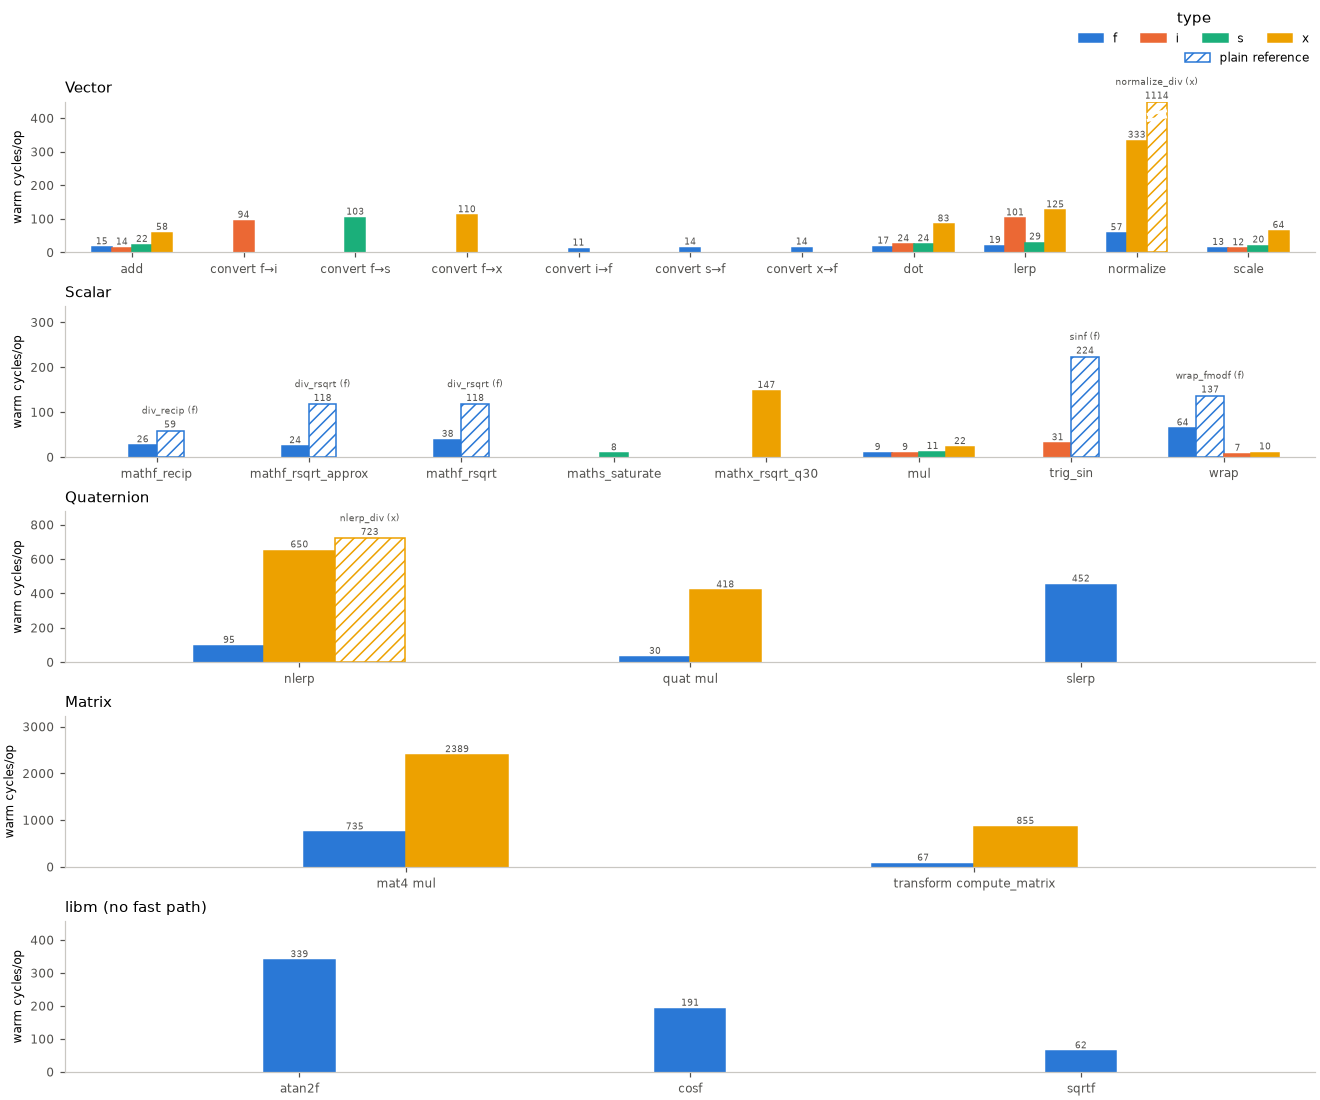
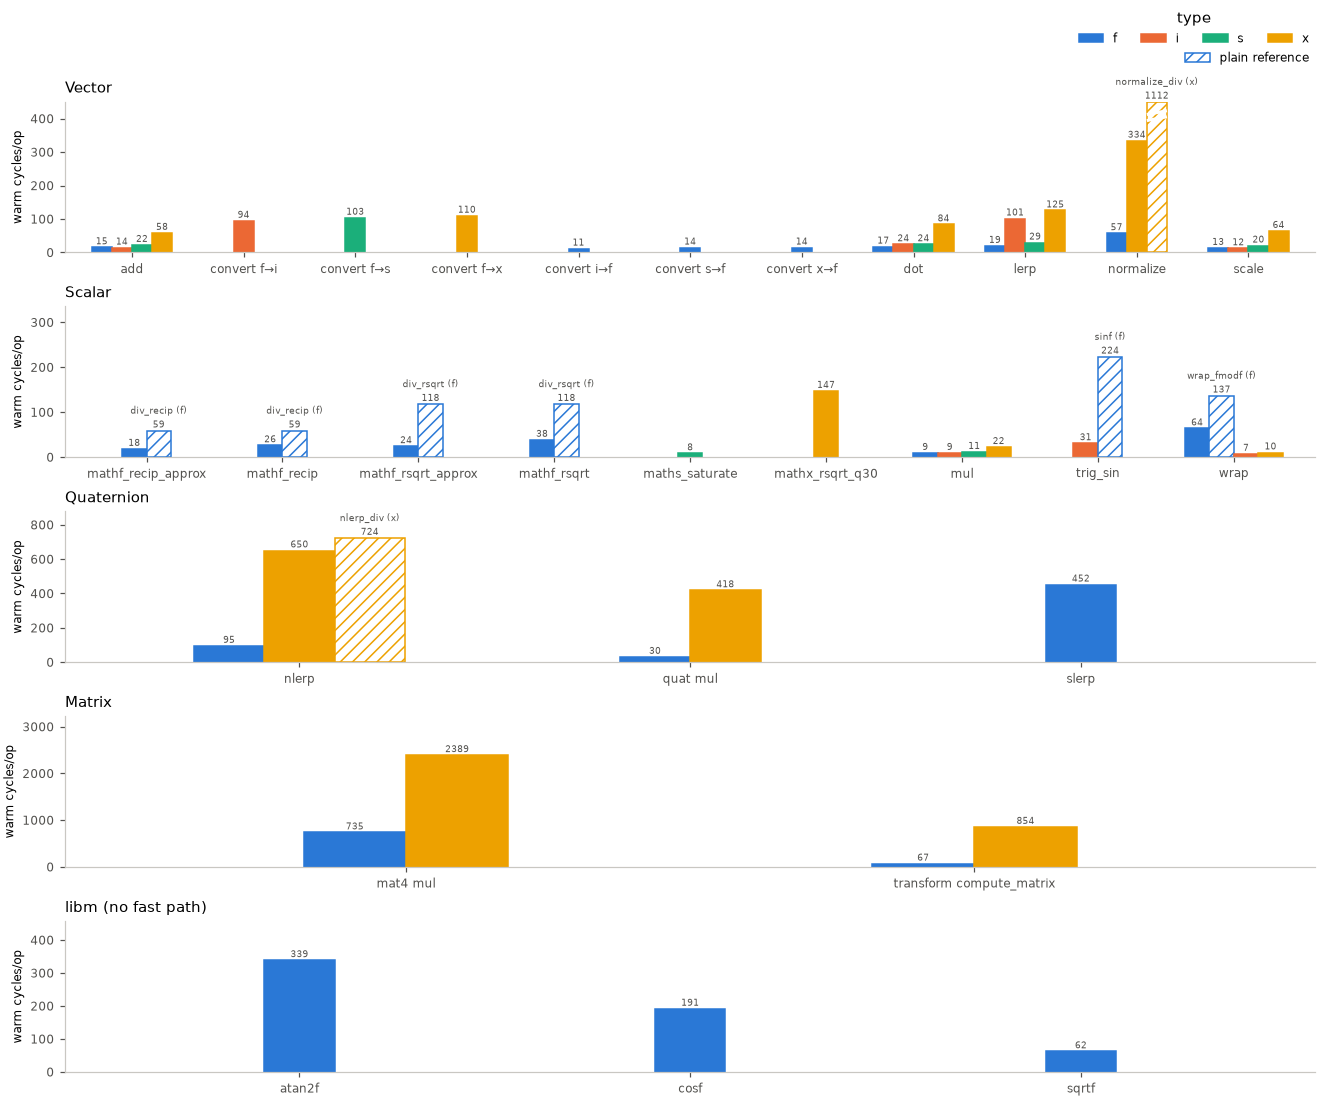
math: mathf_recip_approx keeps 14 bits (2124 proof max 0x1.fffffe008p-15); bench capture, docs and worst-bin lines from it

Changed region(s): [[0.4038, 0.2782, 0.9629, 0.4327], [0.1864, 0.34, 0.3727, 0.4327], [0.0621, 0.3709, 0.1553, 0.4327]]

diff --git a/scripts/gates/tests/test_fast_paths.py b/scripts/gates/tests/test_fast_paths.py
@@ -205,30 +205,26 @@ class FastPathTests(unittest.TestCase):
         source.write_text(source.read_text().replace('unit=ulp', 'unit=relative'))
         item = paths.annotations(self.root)[0]
         self.assertEqual(item.limit, 2 ** -13)
-        self.assertEqual(paths.limit_label(item), '2^-13 relative (13 bits)')
+        self.assertEqual(paths.limit_label(item), '2^-13 rel, 13 bits')
         self.header.write_text(self.header.read_text().replace('EXAMPLE_BITS 13', 'EXAMPLE_BITS 14'))
         self.assertEqual(paths.annotations(self.root)[0].limit, 2 ** -14)
 
-    def test_worst_period_bin_uses_edges_and_rounded_up_bounds(self):
+    def test_worst_period_bin_uses_edges_and_a_rounded_up_bound_for_the_rest(self):
         points = [(1.015625 + i / 32, 2 ** -16, 'relative') for i in range(32)]
         points[-1] = (points[-1][0], 2 ** -14, 'relative')
-        points[0] = (points[0][0], 3.13e-5, 'relative')
+        points[0] = (points[0][0], 3.124e-5, 'relative')
         self.assertEqual(paths.worst_bin_line(points),
-            'Worst bin: mantissa 1.97-2.00 at 2^-14; every other bin <= 2^-14.')
-        points[0] = (points[0][0], 2 ** -15, 'relative')
-        self.assertIn('every other bin <= 2^-15.', paths.worst_bin_line(points))
+            'Worst bin: mantissa 1.97-2.00 at 6.1e-5; every other bin <= 3.2e-5.')
         points[10] = (points[10][0], 2 ** -13, 'relative')
-        self.assertIn('mantissa 1.31-1.34 at 2^-13', paths.worst_bin_line(points))
+        self.assertIn('mantissa 1.31-1.34 at 0.00012', paths.worst_bin_line(points))
         for missing in ([], points[:1]):
             with self.subTest(missing=missing), self.assertRaises(ValueError):
                 paths.worst_bin_line(missing)
 
-    def test_period_bounds_round_up_even_just_above_a_power_of_two(self):
-        import math
-        points = [(1.25, math.nextafter(2 ** -14, math.inf), 'relative'),
-                  (1.75, 0, 'relative')]
-        self.assertEqual(paths.worst_bin_line(points),
-            'Worst bin: mantissa 1.00-1.50 at 2^-13; every other bin <= 0.')
+    def test_the_bound_for_the_rest_never_rounds_below_a_bin(self):
+        points = [(1.25, 2 ** -13, 'relative'), (1.75, 3.0001e-5, 'relative'), (1.5, 0, 'relative')]
+        self.assertTrue(paths.worst_bin_line(points).endswith('every other bin <= 3.1e-5.'))
+        self.assertEqual(paths.ceil_measurement(0), '0')
 
     def test_relative_period_sections_render_and_require_their_bins(self):
         items = [item for item in paths.annotations()
@@ -239,9 +235,9 @@ class FastPathTests(unittest.TestCase):
         bins = {key: [(1.25, 2 ** -15, 'relative'), (1.75, 2 ** -14, 'relative')] for key in errors}
         fpu = {item.fast: 'recip0.s rsqrt0.s' for item in items}
         text = paths.render(ROOT, items, [], {}, errors, bins, {}, fpu, 'test target')
-        self.assertIn('2^-13 relative (13 bits)', text)
+        self.assertIn(f"rel, {next(item.bits for item in items if item.bits)} bits", text)
         self.assertEqual(text.count(
-            'Worst bin: mantissa 1.50-2.00 at 2^-14; every other bin <= 2^-15.'), 2)
+            'Worst bin: mantissa 1.50-2.00 at 6.1e-5; every other bin <= 3.1e-5.'), 2)
         for item in items:
             with self.subTest(key=item.key), self.assertRaisesRegex(ValueError, 'missing.*bins'):
                 paths.render(ROOT, [item], [], {}, errors, {}, {}, fpu, 'test target')
@@ -449,7 +445,7 @@ class FastPathTests(unittest.TestCase):
         measured = {row[0]: (10.0, 20.0, 5.0) for row in rows}
         measured["div_recip_f"] = (25.0, 40.0, 15.0)
         errors = {(item.key, item.kind): "0 ulp" for item in items}
-        bins = {(item.key, item.kind): [(1.0, 0.0, item.unit)] for item in items}
+        bins = {(item.key, item.kind): [(1.0, 0.0, item.unit), (1.5, 0.0, item.unit)] for item in items}
         text = paths.render(ROOT, items, rows, measured, errors, bins, sizes, fpu, "test target")
         summary, details = text.split('<a id="mathf-recip"></a>', 1)
         self.assertEqual(summary.count("| [`"), len(items) * 3)

diff --git a/launcher/tools/perf/fast_paths.py b/launcher/tools/perf/fast_paths.py
@@ -372,8 +372,8 @@ def format_limit(value):
 
 
 def limit_label(item):
-    unit = ("step" if item.limit == 1 else "steps") if item.unit == "ulp" else item.unit
-    bits = f" ({item.bits} bits)" if item.bits is not None else ""
+    unit = ("step" if item.limit == 1 else "steps") if item.unit == "ulp" else "rel" if item.unit == "relative" else item.unit
+    bits = f", {item.bits} bits" if item.bits is not None else ""
     return f"{format_limit(item.limit)} {unit}{bits}"
 
 
@@ -386,13 +386,16 @@ def worst_bin_line(points):
     left = (points[worst - 1][0] + centre) / 2 if worst else centre - (points[1][0] - centre) / 2
     right = (centre + points[worst + 1][0]) / 2 if worst + 1 < len(points) else centre + (centre - points[-2][0]) / 2
     other = max(value for index, (_, value, _) in enumerate(points) if index != worst)
-    def bound(value):
-        if value == 0:
-            return "0"
-        fraction, exponent = math.frexp(value)
-        return f"2^{exponent - (fraction == 0.5)}"
-    return (f"Worst bin: mantissa {left:.{BIN_EDGE_DECIMAL_PLACES}f}-{right:.{BIN_EDGE_DECIMAL_PLACES}f} at {bound(maximum)}; "
-            f"every other bin <= {bound(other)}.")
+    return (f"Worst bin: mantissa {left:.{BIN_EDGE_DECIMAL_PLACES}f}-{right:.{BIN_EDGE_DECIMAL_PLACES}f} "
+            f"at {format_measurement(maximum)}; every other bin <= {ceil_measurement(other)}.")
+
+
+def ceil_measurement(value):
+    """Rounds up to the measurement digits, so a stated bound is never below the value."""
+    if value == 0:
+        return "0"
+    digits = MEASUREMENT_SIGNIFICANT_DIGITS - 1 - math.floor(math.log10(value))
+    return format_measurement(math.ceil(value * 10 ** digits) / 10 ** digits)
 
 
 def format_measurement(value):
@@ -473,7 +476,7 @@ def render(root, items, rows, measured, errors, bins, sizes, fpu, target, source
                       f"({limit_label(row)}); {row.method}.", "",
                       f"Plain way: {expression}.", ""]
         identity = key, item.kind
-        if item.unit == "relative" and item.period_bins:
+        if item.unit == "relative" and item.period_bins and identity in errors:
             lines += [worst_bin_line(bins.get(identity, [])), ""]
         if identity in errors and float(errors[identity].split()[0]) == 0:
             count = (input_counts or {}).get(identity)

diff --git a/launcher/packages/math/include/math/scalar/mathf.h b/launcher/packages/math/include/math/scalar/mathf.h
@@ -114,7 +114,7 @@ mathf_recip_approx(float a) {
 }
 
 /* The board proof's maximum rounded up to a power of two: the approximation keeps this many bits. */
-#define MATHF_RECIP_APPROX_BITS           13
+#define MATHF_RECIP_APPROX_BITS           14
 #define MATHF_RECIP_APPROX_RELATIVE_LIMIT (1.0F / (float)(1UL << MATHF_RECIP_APPROX_BITS))
 /* One seed correction trades accuracy for throughput; the suite proves this bound. */
 #define MATHF_RSQRT_APPROX_RELATIVE_LIMIT 0.0001F

diff --git a/launcher/packages/math/tests/suite_math_numbers.c b/launcher/packages/math/tests/suite_math_numbers.c
@@ -893,7 +893,7 @@ test_recip_approx_mantissas_and_normal_exponent_edges(void) {
                1.0 + (bin + 0.5) / FAST_PATH_BINS_PER_UNIT, bins[bin]);
     }
     printf("MATHERROR name=mathf_recip_approx type=f max=%a unit=relative method=proof\n", maximum);
-    TEST_ASSERT_TRUE(maximum <= MATHF_RECIP_APPROX_RELATIVE_LIMIT);
+    TEST_ASSERT_TRUE(maximum <= (double)MATHF_RECIP_APPROX_RELATIVE_LIMIT);
 }
 #endif
 

diff --git a/docs/math/Benchmark.md b/docs/math/Benchmark.md
@@ -28,87 +28,88 @@ Warm cycles per op, generated from the committed capture.
 
 | function | type | cycles/op warm | cold cycles/call (I-cache refill) | board insn/op | QEMU insn/op | cycles/insn | fused/approx ops; calls | max error |
 |---|---|---:|---:|---:|---:|---:|---|---|
-| add (vec3) | f | 15.2 | 1578.0 | 14.4 | 14.2 | 1.1 | - | - |
-| add (vec3) | i | 14.2 | 1456.0 | 14.4 | 14.2 | 1.0 | - | - |
-| add (vec3) | s | 22.3 | 2497.0 | 22.5 | 31.4 | 1.0 | - | - |
-| add (vec3) | x | 58.3 | 5977.0 | 43.5 | 44.4 | 1.3 | - | - |
-| convert | f_to_i | 94.4 | 8620.0 | 61.0 | 62.0 | 1.5 | - | - |
-| convert | f_to_s | 103.4 | 8855.0 | 74.6 | 75.5 | 1.4 | - | - |
-| convert | f_to_x | 110.5 | 9634.0 | 69.8 | 70.5 | 1.6 | - | - |
-| convert | i_to_f | 11.2 | 1285.0 | 11.4 | 11.2 | 1.0 | - | - |
-| convert | s_to_f | 14.3 | 1615.0 | 14.4 | 14.3 | 1.0 | - | - |
-| convert | x_to_f | 14.3 | 1633.0 | 14.4 | 14.3 | 1.0 | - | - |
-| dot (vec3) | f | 17.2 | 1705.0 | 12.4 | 12.2 | 1.4 | madd.s | - |
-| dot (vec3) | i | 24.2 | 2275.0 | 24.4 | 24.2 | 1.0 | - | - |
-| dot (vec3) | s | 24.2 | 2257.0 | 24.4 | 24.2 | 1.0 | - | - |
-| dot (vec3) | x | 83.2 | 9060.0 | 64.8 | 65.8 | 1.3 | - | - |
-| lerp (vec3) | f | 19.3 | 2023.0 | 17.4 | 17.3 | 1.1 | madd.s | - |
-| lerp (vec3) | i | 101.2 | 8709.0 | 92.5 | 93.4 | 1.1 | - | - |
-| lerp (vec3) | s | 29.3 | 2677.0 | 41.1 | 31.3 | 0.7 | - | - |
-| lerp (vec3) | x | 125.2 | 11952.0 | 98.5 | 99.5 | 1.3 | - | - |
-| [normalize_div](Fast-Paths.md#mathx-rsqrt-q30) | x | 1113.6 | 76785.0 | 916.8 | 907.9 | 1.2 | calls __udivdi3, mathi_isqrt64_digits | - |
-| normalize (vec3) | f | 57.3 | 5394.0 | 29.5 | device-only instruction | 1.9 | madd.s msub.s rsqrt0.s; calls __divsf3, sqrtf | 1 step (sweep) |
-| [normalize (vec3)](Fast-Paths.md#mathx-rsqrt-q30) | x | 332.7 | 27825.0 | 267.7 | device-only instruction | 1.2 | madd.s msub.s rsqrt0.s; calls __assert_func, mathx_rsqrt_q30 | [fast paths](Fast-Paths.md#mathx-rsqrt-q30) |
-| scale (vec3) | f | 13.2 | 1306.0 | 12.4 | 12.2 | 1.1 | - | - |
-| scale (vec3) | i | 12.2 | 1228.0 | 12.4 | 12.2 | 1.0 | - | - |
-| scale (vec3) | s | 20.3 | 2267.0 | 20.5 | 30.4 | 1.0 | - | - |
-| scale (vec3) | x | 64.0 | 7382.0 | 48.7 | 49.0 | 1.3 | - | - |
+| add (vec3) | f | 15.2 | 1527.0 | 14.4 | 14.2 | 1.1 | - | - |
+| add (vec3) | i | 14.2 | 1405.0 | 14.4 | 14.2 | 1.0 | - | - |
+| add (vec3) | s | 22.3 | 2347.0 | 22.5 | 31.4 | 1.0 | - | - |
+| add (vec3) | x | 58.3 | 5792.0 | 43.5 | 44.4 | 1.3 | - | - |
+| convert | f_to_i | 94.4 | 8602.0 | 61.0 | 62.0 | 1.5 | - | - |
+| convert | f_to_s | 103.4 | 8926.0 | 74.6 | 75.5 | 1.4 | - | - |
+| convert | f_to_x | 109.5 | 9574.0 | 81.3 | 70.5 | 1.3 | - | - |
+| convert | i_to_f | 11.2 | 1234.0 | 11.4 | 11.2 | 1.0 | - | - |
+| convert | s_to_f | 14.3 | 1692.0 | 14.4 | 14.3 | 1.0 | - | - |
+| convert | x_to_f | 14.3 | 1684.0 | 14.4 | 14.3 | 1.0 | - | - |
+| dot (vec3) | f | 17.2 | 1654.0 | 12.4 | 12.2 | 1.4 | madd.s | - |
+| dot (vec3) | i | 24.2 | 2224.0 | 24.4 | 24.2 | 1.0 | - | - |
+| dot (vec3) | s | 24.2 | 2206.0 | 24.4 | 24.2 | 1.0 | - | - |
+| dot (vec3) | x | 83.6 | 9291.0 | 64.8 | 65.8 | 1.3 | - | - |
+| lerp (vec3) | f | 19.3 | 1930.0 | 17.4 | 17.3 | 1.1 | madd.s | - |
+| lerp (vec3) | i | 101.2 | 8475.0 | 92.5 | 93.4 | 1.1 | - | - |
+| lerp (vec3) | s | 29.3 | 2626.0 | 29.4 | 31.3 | 1.0 | - | - |
+| lerp (vec3) | x | 125.3 | 12229.0 | 98.5 | 99.5 | 1.3 | - | - |
+| [normalize_div](Fast-Paths.md#mathx-rsqrt-q30) | x | 1111.7 | 76545.0 | 905.2 | 907.9 | 1.2 | calls __udivdi3, mathi_isqrt64_digits | - |
+| normalize (vec3) | f | 57.3 | 5240.0 | 29.5 | device-only instruction | 1.9 | madd.s msub.s rsqrt0.s; calls __divsf3, sqrtf | 1 step (sweep) |
+| [normalize (vec3)](Fast-Paths.md#mathx-rsqrt-q30) | x | 333.7 | 27543.0 | 267.7 | device-only instruction | 1.2 | madd.s msub.s rsqrt0.s; calls __assert_func, mathx_rsqrt_q30 | [fast paths](Fast-Paths.md#mathx-rsqrt-q30) |
+| scale (vec3) | f | 13.2 | 1258.0 | 12.4 | 12.2 | 1.1 | - | - |
+| scale (vec3) | i | 12.2 | 1180.0 | 12.4 | 12.2 | 1.0 | - | - |
+| scale (vec3) | s | 20.3 | 2052.0 | 20.5 | 30.4 | 1.0 | - | - |
+| scale (vec3) | x | 64.0 | 7125.0 | 48.7 | 49.0 | 1.3 | - | - |
 
 #### Scalar
 
 | function | type | cycles/op warm | cold cycles/call (I-cache refill) | board insn/op | QEMU insn/op | cycles/insn | fused/approx ops; calls | max error |
 |---|---|---:|---:|---:|---:|---:|---|---|
-| [div_recip](Fast-Paths.md#mathf-recip) | f | 59.2 | 4493.0 | 40.4 | 40.3 | 1.5 | calls __divsf3 | - |
-| [div_rsqrt](Fast-Paths.md#mathf-rsqrt) | f | 118.2 | 9687.0 | 83.4 | 82.3 | 1.4 | calls __divsf3, sqrtf | - |
-| [mathf_recip](Fast-Paths.md#mathf-recip) | f | 26.2 | 2557.0 | 13.4 | device-only instruction | 2.0 | madd.s msub.s recip0.s | [fast paths](Fast-Paths.md#mathf-recip) |
-| [mathf_rsqrt_approx](Fast-Paths.md#mathf-rsqrt-approx) | f | 24.2 | 2431.0 | 12.5 | device-only instruction | 1.9 | msub.s rsqrt0.s | [fast paths](Fast-Paths.md#mathf-rsqrt-approx) |
-| [mathf_rsqrt](Fast-Paths.md#mathf-rsqrt) | f | 38.3 | 4100.0 | 18.5 | device-only instruction | 2.1 | madd.s msub.s rsqrt0.s; calls __divsf3, sqrtf | [fast paths](Fast-Paths.md#mathf-rsqrt) |
-| maths_saturate | s | 8.3 | 1153.0 | 8.4 | - | 1.0 | - | 0 lsb (sweep) |
-| [mathx_rsqrt_q30](Fast-Paths.md#mathx-rsqrt-q30) | x | 147.2 | 13290.0 | 113.4 | device-only instruction | 1.3 | madd.s msub.s rsqrt0.s; calls mathx_rsqrt_q30 | [fast paths](Fast-Paths.md#mathx-rsqrt-q30) |
-| mul (scalar) | f | 9.2 | 1021.0 | 6.4 | 6.2 | 1.4 | - | - |
-| mul (scalar) | i | 9.2 | 962.0 | 8.4 | 8.2 | 1.1 | - | - |
-| mul (scalar) | s | 11.3 | 1231.0 | 10.4 | 10.2 | 1.1 | - | - |
-| mul (scalar) | x | 22.3 | 2845.0 | 17.4 | 17.3 | 1.3 | - | - |
-| [trig_sin](Fast-Paths.md#trig-sin) | i | 30.7 | 4555.0 | 23.9 | 23.8 | 1.3 | - | [fast paths](Fast-Paths.md#trig-sin) |
-| [wrap](Fast-Paths.md#mathf-repeat) | f | 63.7 | 6739.0 | 30.0 | device-only instruction | 2.1 | madd.s msub.s recip0.s; calls fmodf | [fast paths](Fast-Paths.md#mathf-repeat) |
-| wrap | i | 7.2 | 907.0 | 7.4 | 7.2 | 1.0 | - | - |
-| wrap | x | 10.2 | 1262.0 | 10.4 | 10.2 | 1.0 | - | - |
+| [div_recip](Fast-Paths.md#mathf-recip) | f | 59.2 | 4555.0 | 40.4 | 40.3 | 1.5 | calls __divsf3 | - |
+| [div_rsqrt](Fast-Paths.md#mathf-rsqrt) | f | 118.2 | 9965.0 | 83.4 | 82.3 | 1.4 | calls __divsf3, sqrtf | - |
+| [mathf_recip_approx](Fast-Paths.md#mathf-recip-approx) | f | 18.2 | 1818.0 | 10.4 | device-only instruction | 1.7 | madd.s msub.s recip0.s | [fast paths](Fast-Paths.md#mathf-recip-approx) |
+| [mathf_recip](Fast-Paths.md#mathf-recip) | f | 26.2 | 2470.0 | 13.4 | device-only instruction | 2.0 | madd.s msub.s recip0.s | [fast paths](Fast-Paths.md#mathf-recip) |
+| [mathf_rsqrt_approx](Fast-Paths.md#mathf-rsqrt-approx) | f | 24.2 | 2410.0 | 12.5 | device-only instruction | 1.9 | msub.s rsqrt0.s | [fast paths](Fast-Paths.md#mathf-rsqrt-approx) |
+| [mathf_rsqrt](Fast-Paths.md#mathf-rsqrt) | f | 38.3 | 3859.0 | 18.5 | device-only instruction | 2.1 | madd.s msub.s rsqrt0.s; calls __divsf3, sqrtf | [fast paths](Fast-Paths.md#mathf-rsqrt) |
+| maths_saturate | s | 8.3 | 1088.0 | 8.4 | - | 1.0 | - | 0 lsb (sweep) |
+| [mathx_rsqrt_q30](Fast-Paths.md#mathx-rsqrt-q30) | x | 147.2 | 13260.0 | 113.4 | device-only instruction | 1.3 | madd.s msub.s rsqrt0.s; calls mathx_rsqrt_q30 | [fast paths](Fast-Paths.md#mathx-rsqrt-q30) |
+| mul (scalar) | f | 9.2 | 970.0 | 6.4 | 6.2 | 1.4 | - | - |
+| mul (scalar) | i | 9.2 | 911.0 | 8.4 | 8.2 | 1.1 | - | - |
+| mul (scalar) | s | 11.3 | 1540.0 | 10.4 | 10.2 | 1.1 | - | - |
+| mul (scalar) | x | 22.3 | 2814.0 | 17.4 | 17.3 | 1.3 | - | - |
+| [trig_sin](Fast-Paths.md#trig-sin) | i | 30.7 | 4441.0 | 23.9 | 23.8 | 1.3 | - | [fast paths](Fast-Paths.md#trig-sin) |
+| [wrap](Fast-Paths.md#mathf-repeat) | f | 63.7 | 6720.0 | 30.0 | device-only instruction | 2.1 | madd.s msub.s recip0.s; calls fmodf | [fast paths](Fast-Paths.md#mathf-repeat) |
+| wrap | i | 7.2 | 856.0 | 7.4 | 7.2 | 1.0 | - | - |
+| wrap | x | 10.2 | 1336.0 | 10.4 | 10.2 | 1.0 | - | - |
 
 #### Quaternion
 
 | function | type | cycles/op warm | cold cycles/call (I-cache refill) | board insn/op | QEMU insn/op | cycles/insn | fused/approx ops; calls | max error |
 |---|---|---:|---:|---:|---:|---:|---|---|
-| [nlerp_div](Fast-Paths.md#mathx-rsqrt-q30) | x | 723.0 | 60070.0 | 519.4 | 529.4 | 1.4 | calls __divdi3, mathi_isqrt64_digits | - |
-| nlerp | f | 94.7 | 8920.0 | 53.6 | device-only instruction | 1.8 | madd.s msub.s rsqrt0.s; calls __divsf3, sqrtf | 2 steps (sweep) |
-| [nlerp](Fast-Paths.md#mathx-rsqrt-q30) | x | 650.1 | 57628.0 | 511.4 | device-only instruction | 1.3 | madd.s msub.s rsqrt0.s; calls mathx_rsqrt_q30 | [fast paths](Fast-Paths.md#mathx-rsqrt-q30) |
-| quat mul | f | 30.2 | 2708.0 | 30.6 | 30.2 | 1.0 | madd.s msub.s | - |
-| quat mul | x | 417.5 | 40134.0 | 312.4 | 313.9 | 1.3 | - | - |
-| slerp | f | 451.6 | 34888.0 | 305.2 | device-only instruction | 1.5 | madd.s msub.s rsqrt0.s; calls __divsf3, sqrtf | - |
+| [nlerp_div](Fast-Paths.md#mathx-rsqrt-q30) | x | 723.7 | 59776.0 | 519.4 | 529.4 | 1.4 | calls __divdi3, mathi_isqrt64_digits | - |
+| nlerp | f | 94.7 | 8676.0 | 53.6 | device-only instruction | 1.8 | madd.s msub.s rsqrt0.s; calls __divsf3, sqrtf | 2 steps (sweep) |
+| [nlerp](Fast-Paths.md#mathx-rsqrt-q30) | x | 650.1 | 58118.0 | 511.4 | device-only instruction | 1.3 | madd.s msub.s rsqrt0.s; calls mathx_rsqrt_q30 | [fast paths](Fast-Paths.md#mathx-rsqrt-q30) |
+| quat mul | f | 30.2 | 2657.0 | 30.4 | 30.2 | 1.0 | madd.s msub.s | - |
+| quat mul | x | 418.3 | 39620.0 | 312.5 | 313.9 | 1.3 | - | - |
+| slerp | f | 451.6 | 34405.0 | 305.2 | device-only instruction | 1.5 | madd.s msub.s rsqrt0.s; calls __divsf3, sqrtf | - |
 
 #### Matrix
 
 | function | type | cycles/op warm | cold cycles/call (I-cache refill) | board insn/op | QEMU insn/op | cycles/insn | fused/approx ops; calls | max error |
 |---|---|---:|---:|---:|---:|---:|---|---|
-| mat4 mul | f | 735.3 | 48337.0 | 504.5 | 506.4 | 1.5 | madd.s; calls memcpy | - |
-| mat4 mul | x | 2389.4 | 159198.0 | 1637.0 | 1640.4 | 1.5 | calls memcpy | - |
-| transform compute_matrix | f | 67.3 | 6339.0 | 67.5 | 67.4 | 1.0 | madd.s msub.s | - |
-| transform compute_matrix | x | 855.4 | 74842.0 | 660.1 | 661.4 | 1.3 | calls mat4x_from_trs, memcpy | - |
+| mat4 mul | f | 735.3 | 48605.0 | 504.5 | 506.4 | 1.5 | madd.s; calls memcpy | - |
+| mat4 mul | x | 2389.4 | 159039.0 | 1637.0 | 1640.4 | 1.5 | calls memcpy | - |
+| transform compute_matrix | f | 67.3 | 6193.0 | 67.5 | 67.4 | 1.0 | madd.s msub.s | - |
+| transform compute_matrix | x | 854.4 | 75912.0 | 660.1 | 661.4 | 1.3 | calls mat4x_from_trs, memcpy | - |
 
 #### Libm
 
 | function | type | cycles/op warm | cold cycles/call (I-cache refill) | board insn/op | QEMU insn/op | cycles/insn | fused/approx ops; calls | max error |
 |---|---|---:|---:|---:|---:|---:|---|---|
-| atan2f | f | 338.6 | 28995.0 | 196.8 | 197.0 | 1.7 | calls atan2f | - |
-| cosf | f | 191.3 | 21034.0 | 110.6 | 111.6 | 1.7 | calls _cosf | - |
-| [sinf](Fast-Paths.md#trig-sin) | f | 223.6 | 23615.0 | 125.9 | 110.0 | 1.8 | calls _sinf | - |
-| sqrtf | f | 62.2 | 5607.0 | 45.4 | 46.3 | 1.4 | calls sqrtf | - |
-| [wrap_fmodf](Fast-Paths.md#mathf-repeat) | f | 136.9 | 13244.0 | 88.5 | 88.6 | 1.5 | calls fmodf | - |
+| atan2f | f | 338.6 | 28842.0 | 196.8 | 197.0 | 1.7 | calls atan2f | - |
+| cosf | f | 191.3 | 21605.0 | 110.6 | 111.6 | 1.7 | calls _cosf | - |
+| [sinf](Fast-Paths.md#trig-sin) | f | 223.6 | 24014.0 | 125.9 | 110.0 | 1.8 | calls _sinf | - |
+| sqrtf | f | 62.2 | 5772.0 | 45.4 | 46.3 | 1.4 | calls sqrtf | - |
+| [wrap_fmodf](Fast-Paths.md#mathf-repeat) | f | 136.9 | 13239.0 | 88.5 | 88.6 | 1.5 | calls fmodf | - |
 
 #### Calibration
 
 | function | type | cycles/op warm | cold cycles/call (I-cache refill) | board insn/op | QEMU insn/op | cycles/insn | fused/approx ops; calls | max error |
 |---|---|---:|---:|---:|---:|---:|---|---|
-| dot_f32_n256 | f | 1299.0 | 1862.0 | 1309.0 | 1299.0 | 1.0 | madd.s | - |
+| dot_f32_n256 | f | 1299.0 | 1811.0 | 1309.0 | 1299.0 | 1.0 | madd.s | - |
 
 ESP-DSP calibration: measured warm 1299.0 cycles/call; ANSI O2 reference 1311 cycles/call; measured/reference 99.1%.
 <!-- /generated: math-benchmark -->

diff --git a/docs/math/Fast-Paths.md b/docs/math/Fast-Paths.md
@@ -24,18 +24,20 @@ Measured target: esp32s3 (Xtensa, LX7_ESP32_S3_MP).
 | [`mathx_rsqrt_q30`](#mathx-rsqrt-q30) (nlerp) | blend + isqrt64 normalization | an FPU seed plus one integer Newton correction (table fallback) and exact midpoint bracket |
 | [`mathf_repeat`](#mathf-repeat) | `fmodf(v - lo, hi - lo)` | reciprocal quotient and fused remainder, with range fallback |
 | [`trig_sin`](#trig-sin) | `sinf(phase * (MATH_TAU / TRIG_TURN))` | quarter-wave interpolation |
+| [`mathf_recip_approx`](#mathf-recip-approx) | `1.0F / x` | reciprocal seed with one Newton correction |
 
 ### Cost and error
 
 | Fast path | Warm cycles: fast / plain (×) | Cold cycles: fast / plain | Max error |
 |---|---|---|---|
-| [`mathf_recip`](#mathf-recip) | 26 / 59 (2.3×) | 2600 / 4500 | 1 step |
-| [`mathf_rsqrt`](#mathf-rsqrt) | 38 / 120 (3.1×) | 4100 / 9700 | 1 step |
-| [`mathf_rsqrt_approx`](#mathf-rsqrt-approx) | 24 / 120 (4.9×) | 2400 / 9700 | 5.9e-5 rel |
+| [`mathf_recip`](#mathf-recip) | 26 / 59 (2.3×) | 2500 / 4600 | 1 step |
+| [`mathf_rsqrt`](#mathf-rsqrt) | 38 / 120 (3.1×) | 3900 / 10000 | 1 step |
+| [`mathf_rsqrt_approx`](#mathf-rsqrt-approx) | 24 / 120 (4.9×) | 2400 / 10000 | 5.9e-5 rel |
 | [`mathx_rsqrt_q30`](#mathx-rsqrt-q30) (normalize) | 330 / 1100 (3.3×) | 28000 / 77000 | 4.6e-10 rel (host) |
 | [`mathx_rsqrt_q30`](#mathx-rsqrt-q30) (nlerp) | 650 / 720 (1.1×) | 58000 / 60000 | 4.6e-10 rel (host) |
 | [`mathf_repeat`](#mathf-repeat) | 64 / 140 (2.1×) | 6700 / 13000 | 0 steps |
-| [`trig_sin`](#trig-sin) | 31 / 220 (7.3×) | 4600 / 24000 | 4.6 lsb |
+| [`trig_sin`](#trig-sin) | 31 / 220 (7.3×) | 4400 / 24000 | 4.6 lsb |
+| [`mathf_recip_approx`](#mathf-recip-approx) | 18 / 59 (3.3×) | 1800 / 4600 | 6.1e-5 rel |
 
 ### Size and builds
 
@@ -48,6 +50,7 @@ Measured target: esp32s3 (Xtensa, LX7_ESP32_S3_MP).
 | [`mathx_rsqrt_q30`](#mathx-rsqrt-q30) (nlerp) | 3198 flash | ROM + 2599 flash | - |
 | [`mathf_repeat`](#mathf-repeat) | 595 flash | 443 flash | - |
 | [`trig_sin`](#trig-sin) | 192 flash | 171 flash | 390 |
+| [`mathf_recip_approx`](#mathf-recip-approx) | - | ROM + 39 flash | - |
 
 <a id="mathf-recip"></a>
 
@@ -119,6 +122,8 @@ Bench rows `mathf_rsqrt_approx_f` vs `div_rsqrt_f`; limit `MATHF_RSQRT_APPROX_RE
 
 Plain way: `1.0F / sqrtf(x)`.
 
+Worst bin: mantissa 2.41-2.44 at 5.9e-5; every other bin <= 6e-5.
+
 ![Error across the input range](../images/math/fast-path-mathf_rsqrt_approx.png)
 
 <a id="mathx-rsqrt-q30"></a>
@@ -146,6 +151,8 @@ Plain way: isqrt64 squared length, then 64-bit divide and component scaling.
 Bench rows `nlerp_x` vs `nlerp_div_x`; limit `MATHX_RSQRT_Q30_RELATIVE_LIMIT` (2^-31 rel); proof.
 
 Plain way: linear quaternion blend, isqrt64 length, then 64-bit divide normalization.
+
+Worst bin: mantissa 3.94-4.00 at 4.6e-10; every other bin <= 4.6e-10.
 
 ![Error across the input range](../images/math/fast-path-mathx_rsqrt_q30.png)
 
@@ -196,4 +203,30 @@ Bench rows `trig_sin_i` vs `sinf_f`; limit `TRIG_SIN_LSB_LIMIT` (5 lsb); sweep.
 Plain way: `sinf(phase * (MATH_TAU / TRIG_TURN))`.
 
 ![Error across the input range](../images/math/fast-path-trig_sin.png)
+
+<a id="mathf-recip-approx"></a>
+
+## `mathf_recip_approx` <sup>[[85]](../Citations.md#muller-2018)</sup>
+
+| Original | Fast path |
+|---|---|
+| $`y = 1/a`$ | $`y = y + y(1 - ay)`$ |
+
+Symbols: nonzero input `a`; reciprocal seed `y`.
+
+Proof: all mantissas in `[1,2)`, both signs, normal exponent strides and edges.
+
+Target: Xtensa: `recip0.s`, `madd.s`, `msub.s`.
+
+Builds: `CONFIG_MATH_FPU_RECIP`; QEMU plain; host plain.
+
+Callers: none.
+
+Bench rows `mathf_recip_approx_f` vs `div_recip_f`; limit `MATHF_RECIP_APPROX_RELATIVE_LIMIT` (2^-14 rel, 14 bits); proof.
+
+Plain way: `1.0F / x`.
+
+Worst bin: mantissa 1.97-2.00 at 6.1e-5; every other bin <= 3.2e-5.
+
+![Error across the input range](../images/math/fast-path-mathf_recip_approx.png)
 <!-- /generated: math-fast-paths -->

diff --git a/docs/math/Scalar.md b/docs/math/Scalar.md
@@ -3,7 +3,7 @@
 Per-type arithmetic, fixed point, random draws and units. [Math index](README.md).
 
 <!-- generated: math-fast-links-scalar check: python launcher/tools/perf/fast_paths.py --check -->
-Fast-path evidence: [mathf_recip](Fast-Paths.md#mathf-recip), [mathf_rsqrt](Fast-Paths.md#mathf-rsqrt), [mathf_rsqrt_approx](Fast-Paths.md#mathf-rsqrt-approx), [mathx_rsqrt_q30](Fast-Paths.md#mathx-rsqrt-q30), [mathf_repeat](Fast-Paths.md#mathf-repeat), [trig_sin](Fast-Paths.md#trig-sin).
+Fast-path evidence: [mathf_recip](Fast-Paths.md#mathf-recip), [mathf_rsqrt](Fast-Paths.md#mathf-rsqrt), [mathf_rsqrt_approx](Fast-Paths.md#mathf-rsqrt-approx), [mathx_rsqrt_q30](Fast-Paths.md#mathx-rsqrt-q30), [mathf_repeat](Fast-Paths.md#mathf-repeat), [trig_sin](Fast-Paths.md#trig-sin), [mathf_recip_approx](Fast-Paths.md#mathf-recip-approx).
 <!-- /generated: math-fast-links-scalar -->
 
 `math/scalar/` holds per-type arithmetic, fixed point, random draws, trigonometry
